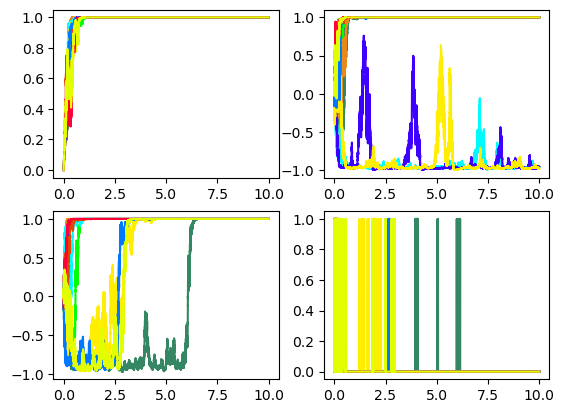
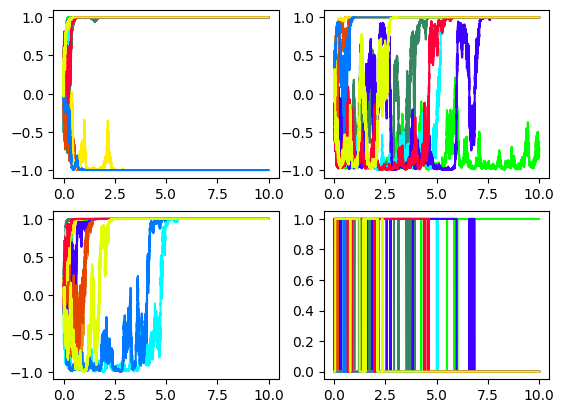
daje

diff --git a/src/examples/idealfeed.rs b/src/examples/idealfeed.rs
@@ -11,21 +11,27 @@ use rand_distr::num_traits::ToPrimitive;
 pub fn qnd() -> SolverResult<()> {
     let mut plot = plotpy::Plot::new();
 
-    let h = -PAULI_Z;
+    // let h = -PAULI_Z;
+    // let f0 = PAULI_X;
+    //
+    // let l1 = -PAULI_Z + PAULI_X;
+    // let hc1 = -PAULI_Y;
+    // let f11 = -PAULI_Y;
+    //
+    // let l2 = -PAULI_Z + PAULI_X.scale(0.1);
+    // let hc2 = -PAULI_Y.scale(0.1);
+    // let f12 = -PAULI_Y.scale(0.1);
+
+    let h = PAULI_Z;
+    let hc = QubitOperator::zeros();
+    let l = PAULI_Z;
     let f0 = PAULI_X;
-
-    let l1 = -PAULI_Z + PAULI_X;
-    let hc1 = -PAULI_Y;
-    let f11 = -PAULI_Y;
-
-    let l2 = -PAULI_Z + PAULI_X.scale(0.1);
-    let hc2 = -PAULI_Y.scale(0.1);
-    let f12 = -PAULI_Y.scale(0.1);
+    let f1 = QubitOperator::zeros();
 
     let rho1 = na::Matrix2::new(1.0, 0.0, 0.0, 0.0).cast();
     let rho2 = na::Matrix2::new(0.0, 0.0, 0.0, 1.0).cast();
-    let y1 = ((l1 + l1.adjoint()) * rho1).trace().re;
-    let y2 = ((l1 + l1.adjoint()) * rho2).trace().re;
+    let y1 = ((l + l.adjoint()) * rho1).trace().re;
+    let y2 = ((l + l.adjoint()) * rho2).trace().re;
 
     let x0 = na::Matrix2::new(0.5, 0.5, 0.5, 0.5).cast();
     // let x0 = random_qubit_state();
@@ -34,13 +40,13 @@ pub fn qnd() -> SolverResult<()> {
 
     let num_tries = 10;
     let final_time: f64 = 10.0;
-    let dt = 0.0001;
-    let decimation = 1;
+    let dt = 0.00001;
+    let decimation = 10;
 
     let mut avg_sigmaz = vec![0.; (final_time / dt).ceil().to_usize().unwrap() + 1];
     let mut converged_traj = 0;
 
-    let gamma = 0.1;
+    let gamma = 0.4;
     let ub = (y1 - y2).abs() * gamma;
 
     let colors = [
@@ -54,20 +60,18 @@ pub fn qnd() -> SolverResult<()> {
             .unwrap(),
     );
 
-    // let mut rng = StdRng::seed_from_u64(0);
     let mut rng1 = rand::rng();
     let mut rng2 = rand::rng();
     let mut rng3 = rand::rng();
-    // let mut ts = vec![0.; avg_sigmaz.len()];
 
     for i in 0..num_tries {
         bar.inc(1);
         let mut system = systems::idealqubitcompletefeedback::QubitFeedback::new(
             h,
-            l1,
-            hc1,
+            l,
+            hc,
             QubitOperator::zeros(),
-            f11,
+            f1,
             y1,
             y2,
             gamma,
@@ -84,36 +88,37 @@ pub fn qnd() -> SolverResult<()> {
             .map(|rho| (PAULI_Z * rho).trace().re)
             .collect::<Vec<f64>>();
 
-        let mut slowsystem = systems::idealqubitcompletefeedback::QubitFeedback::new(
-            h,
-            l2,
-            hc2,
-            QubitOperator::zeros(),
-            f12,
-            y1,
-            y2,
-            gamma,
-            &mut rng2,
+        let mut controlledsystem = systems::idealqubitcompletefeedback::QubitFeedback::new(
+            h, l, hc, f0, f1, y1, y2, gamma, &mut rng2,
         );
-        let mut slowsolver = StochasticSolver::new(&mut slowsystem, 0.0, x0, final_time, dt);
-        slowsolver.integrate()?;
+        let mut controlledsolver =
+            StochasticSolver::new(&mut controlledsystem, 0.0, x0, final_time, dt);
+        controlledsolver.integrate()?;
 
-        let (st_out, srho_out, sdy_out) = slowsolver.results().get();
+        let (st_out, srho_out, sdy_out) = controlledsolver.results().get();
 
         let sobsv = srho_out
             .iter()
             .map(|rho| (PAULI_Z * rho).trace().re)
             .collect::<Vec<f64>>();
 
-        let mut controlledsystem = systems::idealqubitcompletefeedback::QubitFeedback::new(
-            h, l2, hc2, f0, f12, y1, y2, gamma, &mut rng3,
+        let mut controlledsystem2 = systems::idealqubitcompletefeedback::QubitFeedback::new(
+            h,
+            l,
+            hc,
+            f0,
+            f1,
+            y1,
+            y2,
+            gamma / 2.,
+            &mut rng3,
         );
 
-        let mut controlledsolver =
-            StochasticSolver::new(&mut controlledsystem, 0.0, x0, final_time, dt);
-        controlledsolver.integrate()?;
+        let mut controlledsolver2 =
+            StochasticSolver::new(&mut controlledsystem2, 0.0, x0, final_time, dt);
+        controlledsolver2.integrate()?;
 
-        let (ct_out, crho_out, cdy_out) = controlledsolver.results().get();
+        let (ct_out, crho_out, cdy_out) = controlledsolver2.results().get();
 
         let cobsv = crho_out
             .iter()
@@ -124,17 +129,8 @@ pub fn qnd() -> SolverResult<()> {
         let mut t = 0.;
         for i in 0..cdy_out.len() - 1 {
             t += dt;
-            let y = ((l1 + l1.adjoint()) * crho_out[i]).trace().re;
+            let y = ((l + l.adjoint()) * crho_out[i]).trace().re;
             newcorr[i + 1] = if (y - y2).abs() < ub { 1. } else { 0. };
-        }
-
-        if newcorr[newcorr.len() - 1] == 0. {
-            converged_traj += 1;
-            // avg_sigmaz = avg_sigmaz
-            //     .iter()
-            //     .zip(&obsv.iter().map(|o| o[2]).collect::<Vec<f64>>())
-            //     .map(|(x, y)| x + y)
-            //     .collect::<Vec<f64>>();
         }
 
         let t_out_dec: Vec<f64> = (0..t_out.len() / decimation)
@@ -172,14 +168,14 @@ pub fn qnd() -> SolverResult<()> {
             .set_line_color(colors[i as usize])
             .draw(&st_out_dec, &sobsv_dec);
 
-        plot.set_subplot(2, 2, 2).add(&szaxis);
+        plot.set_subplot(2, 2, 3).add(&szaxis);
 
         let mut czaxis = plotpy::Curve::new();
         czaxis
             .set_line_color(colors[i as usize])
             .draw(&ct_out_dec, &cobsv_dec);
 
-        plot.set_subplot(2, 2, 3).add(&czaxis);
+        plot.set_subplot(2, 2, 2).add(&czaxis);
 
         let mut corrs = plotpy::Curve::new();
         corrs
@@ -187,27 +183,9 @@ pub fn qnd() -> SolverResult<()> {
             .draw(&ct_out_dec, &newcorr_dec);
 
         plot.set_subplot(2, 2, 4).add(&corrs);
-
-        // ts = t_out.to_vec();
     }
     bar.finish();
 
-    // let mut sigmaz_avg_traj = plotpy::Curve::new();
-    // sigmaz_avg_traj
-    //     .set_label(&format!(
-    //         "Number of converged trajectories: {converged_traj}"
-    //     ))
-    //     .draw(
-    //         &ts,
-    //         &avg_sigmaz
-    //             .iter()
-    //             .map(|x| x / (converged_traj as f64))
-    //             .collect::<Vec<f64>>(),
-    //     );
-    //
-    // plot.add(&sigmaz_avg_traj);
-
-    println!("Converged trajectories: {converged_traj}");
     plot.show("tempimages")?;
 
     Ok(())

diff --git a/src/systems/idealqubitcompletefeedback.rs b/src/systems/idealqubitcompletefeedback.rs
@@ -10,9 +10,11 @@ pub struct QubitFeedback<'a, R: wiener::Rng + ?Sized> {
     f0: QubitOperator,
     hhat: QubitOperator,
     lhat: QubitOperator,
+    lastset: LastSet,
     y1: f64,
     y2: f64,
-    ub: f64,
+    ub1: f64,
+    ub2: f64,
     rng: &'a mut R,
     wiener: wiener::Wiener,
 }
@@ -38,10 +40,12 @@ impl<'a, R: wiener::Rng + ?Sized> QubitFeedback<'a, R> {
             f0,
             hhat,
             lhat,
+            lastset: LastSet::NotSet,
             y1,
             y2,
             rng,
-            ub: (y1 - y2).abs() * gamma,
+            ub1: (y1 - y2).abs() * gamma,
+            ub2: (y1 - y2).abs() * gamma / 2.,
             wiener: wiener::Wiener::new(),
         }
     }
@@ -50,10 +54,25 @@ impl<'a, R: wiener::Rng + ?Sized> QubitFeedback<'a, R> {
 impl<'a, R: wiener::Rng + ?Sized> StochasticSystem<QubitState> for QubitFeedback<'a, R> {
     fn system(&mut self, t: f64, dt: f64, rho: &QubitState, dx: &mut QubitState, dw: &Vec<f64>) {
         let y = ((self.l + self.l.adjoint()) * rho).trace().re;
-        let corr = if (y - self.y2).abs() < self.ub {
-            1.
-        } else {
+
+        let corr = if (y - self.y2).abs() >= self.ub1 {
             0.
+        } else if (y - self.y2).abs() <= self.ub2 {
+            1.
+        } else if self.lastset == LastSet::NotSet {
+            0.
+        } else if self.lastset == LastSet::LeGammaSet {
+            0.
+        } else {
+            1.
+        };
+
+        self.lastset = if (y - self.y2).abs() >= self.ub1 {
+            LastSet::LeGammaSet
+        } else if (y - self.y2).abs() <= self.ub2 {
+            LastSet::GeGamma2Set
+        } else {
+            self.lastset
         };
 
         let id = QubitOperator::identity();

diff --git a/src/utils.rs b/src/utils.rs
@@ -39,6 +39,13 @@ pub const PAULI_Z: QubitOperator = na::Matrix2::new(
     na::Complex::new(-1.0, 0.0),
 );
 
+#[derive(Clone, Copy, Debug, PartialEq, Eq)]
+pub enum LastSet {
+    NotSet,
+    LeGammaSet,
+    GeGamma2Set,
+}
+
 pub fn commutator<'c, T>(a: &'c T, b: &'c T) -> <TMul<&'c T> as Sub>::Output
 where
     &'c T: Mul,
